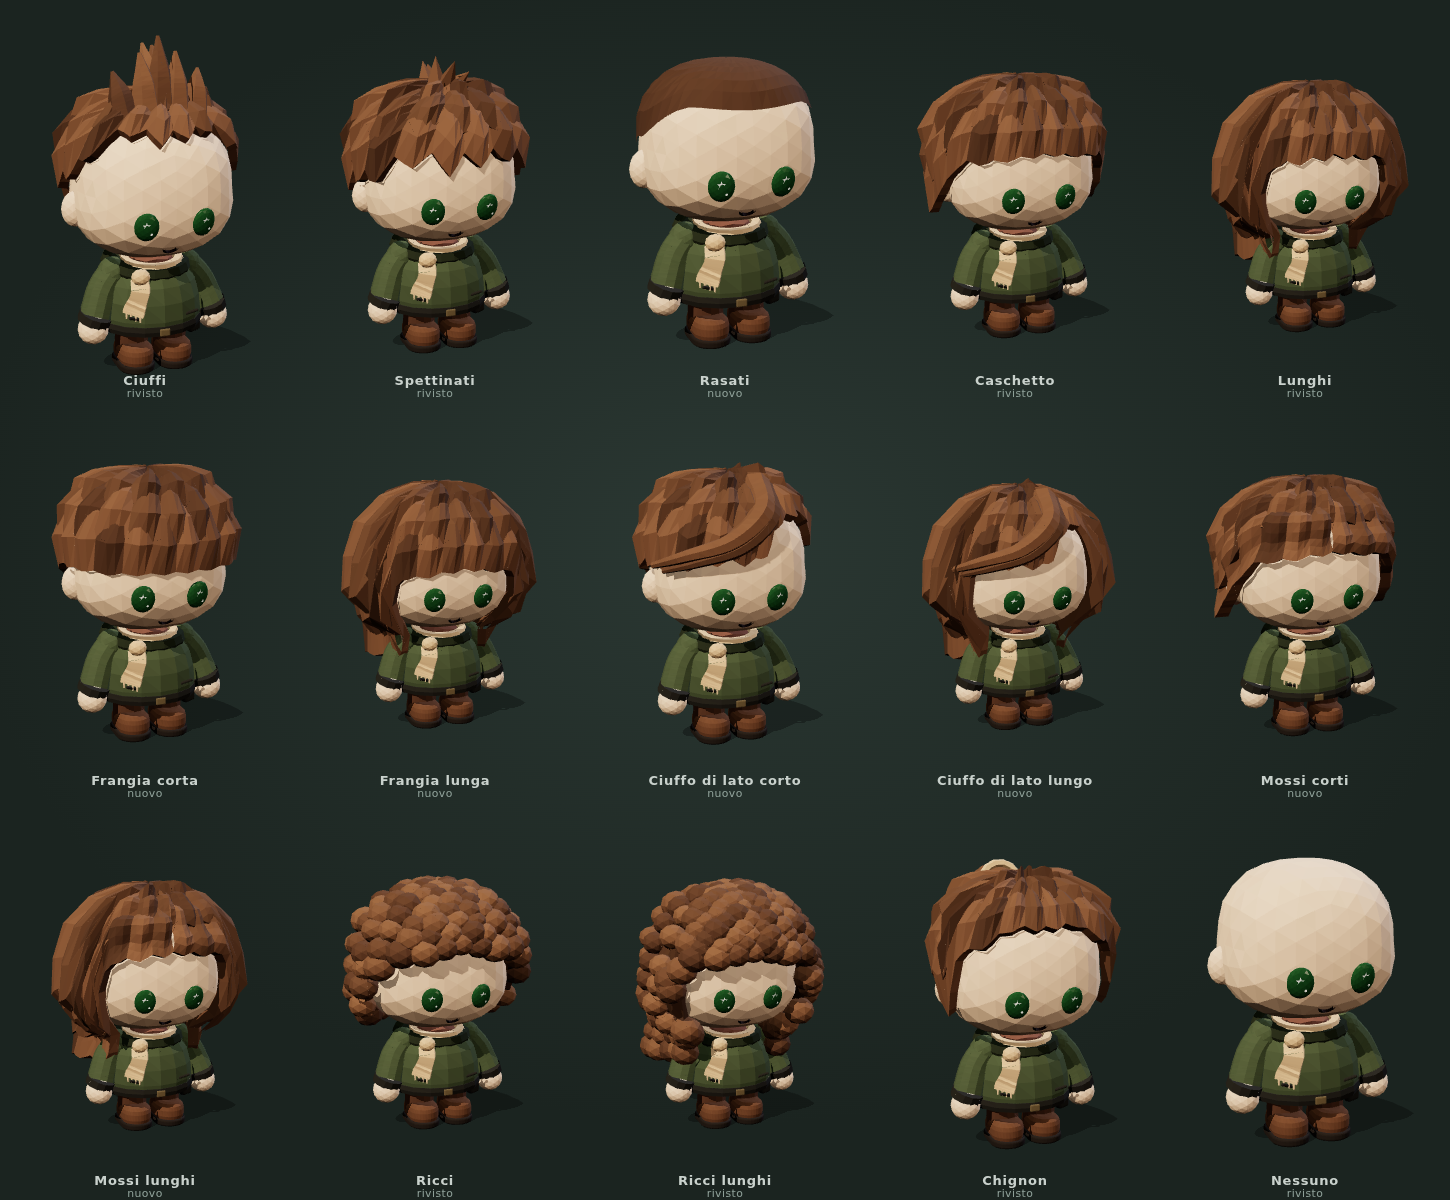
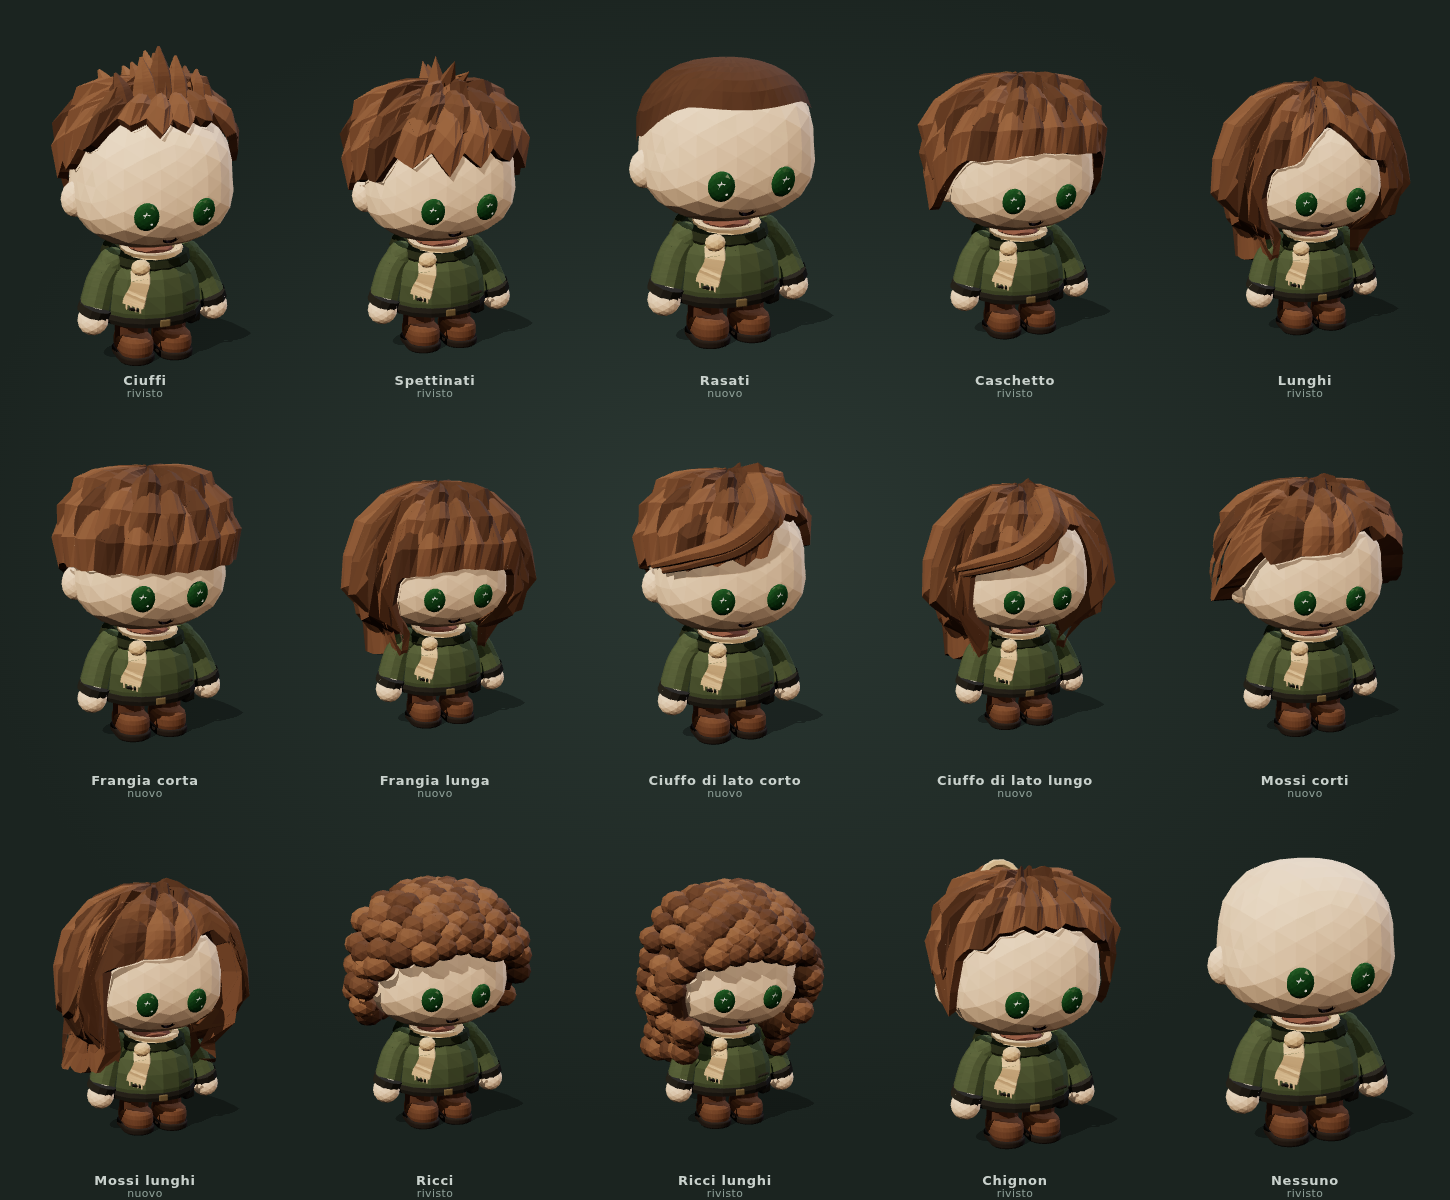
Anteprima capelli: lunghi, frangia lunga e mossi distinti; ciuffi più corti a scalare
Lunghi con la riga in mezzo, frangia lunga a taglio netto, mossi con riga
di lato, ciocche a S e punte tonde che si aprono; caschetto netto alla
mandibola, mossi corti più corti e voluminosi; ciuffi più bassi con altri
ciuffetti a scalare verso la nuca.

Claude-Session: https://claude.ai/code/session_01U6u5RojYrwYjZd8sSRU7em

diff --git a/Prototype-3d/src/render/lowpoly/v2/custode.ts b/Prototype-3d/src/render/lowpoly/v2/custode.ts
@@ -306,12 +306,15 @@ const bump = (a: number, a0: number, a1: number, w = 5) => smooth(a0 - w, a0 + w
 const longTip = (front: number, side = -88, back = -95) => (a: number) => (a < 45 ? lerp(front + 6, front, smooth(0, 45, a)) : a < 72 ? lerp(front, side, smooth(45, 72, a)) : lerp(side, back, smooth(72, 140, a)));
 /** Ciuffo di lato: da una parte la frangia scende sulla fronte, dall'altra la riga lascia la fronte scoperta. */
 const sideFront = (sd: number) => (sd < 0 ? lerp(4, 10, smooth(-70, -20, sd)) : lerp(10, 34, smooth(0, 30, sd)));
+/** Mossi: riga di lato, la frangia scende morbida da una parte. */
+const waveFront = (sd: number) => (sd < 0 ? lerp(8, 16, smooth(-60, -10, sd)) : lerp(16, 30, smooth(0, 35, sd)));
 const HAIR_TIPS: Record<Exclude<HairStyle, 'none'>, (a: number, sd: number) => number> = {
   spiky: (a) => (a < 90 ? lerp(20, 0, smooth(30, 90, a)) : lerp(0, -32, smooth(90, 160, a))), // ai lati fin sopra l'orecchio, dietro alla nuca
   // ciuffi: fronte scoperta (attaccatura alta), corti ai lati; i ciuffi salgono dalla cima
   tufts: (a) => (a < 40 ? 42 : a < 90 ? lerp(42, 8, smooth(40, 90, a)) : lerp(8, -38, smooth(90, 160, a))),
   bob: (a) => (a < 50 ? lerp(14, 8, smooth(0, 50, a)) : lerp(8, -42, smooth(50, 105, a))), // caschetto: frangia dritta, copre le orecchie
-  long: longTip(10),
+  // lunghi: riga in mezzo, due tende che lasciano scoperta la fronte al centro
+  long: (a) => (a < 45 ? lerp(40, 8, smooth(0, 38, a)) : longTip(8)(a)),
   // ricci: scendono sotto le orecchie, dietro fino alla nuca
   curly: (a) => (a < 40 ? lerp(22, 14, smooth(0, 40, a)) : a < 110 ? lerp(14, -40, smooth(40, 110, a)) : lerp(-40, -46, smooth(110, 170, a))),
   longcurly: longTip(12, -84, -90),
@@ -322,9 +325,9 @@ const HAIR_TIPS: Record<Exclude<HairStyle, 'none'>, (a: number, sd: number) => n
   fringeLong: longTip(-2),
   side: (a, sd) => (a < 95 ? lerp(sideFront(sd), 2, smooth(55, 95, a)) : lerp(2, -38, smooth(95, 165, a))),
   sideLong: (a, sd) => (a < 72 ? lerp(sideFront(sd), -88, smooth(50, 72, a)) : lerp(-88, -95, smooth(72, 140, a))),
-  // mossi: come un caschetto lungo, a onde
-  wavy: (a) => (a < 45 ? lerp(16, 10, smooth(0, 45, a)) : lerp(10, -46, smooth(45, 105, a))),
-  wavyLong: longTip(12),
+  // mossi: riga di lato, ciocche a onde con le punte tonde che si aprono; corti fino al lobo
+  wavy: (a, sd) => (a < 45 ? waveFront(sd) : a < 110 ? lerp(waveFront(sd * 0.3), -26, smooth(45, 100, a)) : lerp(-26, -34, smooth(110, 170, a))),
+  wavyLong: (a, sd) => (a < 45 ? waveFront(sd) : longTip(waveFront(sd * 0.3), -92, -102)(a)),
   // rasati: un velo cortissimo che segue l'attaccatura
   buzz: (a) => (a < 40 ? 30 : a < 95 ? lerp(30, 6, smooth(40, 95, a)) : lerp(6, -44, smooth(95, 165, a))),
 };
@@ -599,29 +602,34 @@ function moustache(lp: LP) {
  * per ciocca che scende dal vortice girando un poco: le ciocche fanno parte
  * del volume, non possono staccarsi.
  */
-export function hairLayer(lp: LP, o: { locks: number; hem: (thDeg: number) => number; depth: number; lift: number; thick: number; phase: number; swirl: number; seed: number; tone: (k: number) => string; top?: number; span?: [number, number]; wave?: number }) {
+export function hairLayer(lp: LP, o: { locks: number; hem: (thDeg: number) => number; depth: number; lift: number; thick: number; phase: number; swirl: number; seed: number; tone: (k: number) => string; top?: number; span?: [number, number]; waveTh?: number; flare?: number; round?: boolean }) {
   const rnd = prng(o.seed);
   const jitter = Array.from({ length: o.locks }, () => [0.75 + rnd() * 0.5, (rnd() - 0.5) * 0.3, rnd()]); // lunghezza, asimmetria, tono
-  const NU = o.locks * 4, NV = o.wave ? 18 : 6; // pochi segmenti: bastano per punta e rilievo di ogni ciocca (le onde ne vogliono di più)
+  const NU = o.locks * 4, NV = o.waveTh ? 16 : 6; // pochi segmenti: bastano per punta e rilievo di ogni ciocca (le onde ne vogliono di più)
   const P: THREE.Vector3[][] = [], Q: THREE.Vector3[][] = [], Nn: THREE.Vector3[][] = [], lockOf: number[] = [];
   for (let i = 0; i <= NU; i++) {
     const u = i / NU, f = (u * o.locks + o.phase) % o.locks, k = Math.floor(f), w = f - k;
     const [len, skew] = jitter[k];
-    // dente di sega: punta al centro della ciocca (spostata un po' di lato)
-    const c = 0.5 + skew, tooth = w < c ? w / c : (1 - w) / (1 - c);
+    // dente di sega (punta al centro della ciocca, spostata un po' di lato) o, per i mossi, punte tonde
+    const c = 0.5 + skew, tooth = o.round ? Math.pow(Math.sin(Math.PI * w), 0.5) : w < c ? w / c : (1 - w) / (1 - c);
     const ridge = Math.sin(Math.PI * Math.min(1, Math.max(0, w))); // rilievo al centro della ciocca
     lockOf.push(k);
     P.push([]); Q.push([]); Nn.push([]);
     for (let j = 0; j <= NV; j++) {
       const v = j / NV; // 0 bordo, 1 cima
-      const thD = (o.span ? lerp(o.span[0], o.span[1], u) : u * 360) + o.swirl * v;
+      // mossi: ogni ciocca ondeggia di lato (a S) scendendo, di più verso le punte
+      // (sulla fronte la frangia resta liscia: onde e volume solo ai lati e dietro)
+      const th0 = (o.span ? lerp(o.span[0], o.span[1], u) : u * 360) + o.swirl * v;
+      const sides = smooth(30, 75, absDeg(th0 * DEG));
+      const wv = o.waveTh ? o.waveTh * Math.sin((1 - v) * Math.PI * 2.6 + k * 0.9) * smooth(0, 0.6, 1 - v) * sides : 0;
+      const thD = th0 + wv;
       const ends = o.span ? smooth(0, 0.1, u) * smooth(1, 0.9, u) : 1; // un arco si assottiglia agli estremi
-      const hem = o.hem(thD) - o.depth * len * tooth;
+      const hem = o.hem(thD) - o.depth * len * tooth * (o.round ? 0.25 + 0.75 * sides : 1);
       const top = o.top ?? 89;
       const phD = lerp(Math.min(hem, top - 3), top, Math.pow(v, 0.85));
       const { p, n } = hairPoint(thD * DEG, phD);
-      const wave = o.wave ? o.wave * Math.sin(v * Math.PI * 7 + u * Math.PI * 2 * o.locks * 0.02) * (1 - v) : 0; // onde orizzontali, più marcate in basso
-      const t = (o.thick * (0.55 + 0.45 * ridge) * smooth(0, 0.25, v + 0.05 * tooth) + o.lift * (1 - v) * (1 - v) + Math.max(-o.thick * 0.5, wave)) * ends;
+      const flare = (o.flare ?? 0) * Math.pow(1 - v, 3) * sides; // le punte si aprono verso l'esterno (volume)
+      const t = (o.thick * (0.55 + 0.45 * ridge) * smooth(0, 0.25, v + 0.05 * tooth) + o.lift * (1 - v) * (1 - v) + flare) * ends;
       P[i].push(p.clone().addScaledVector(n, 0.006 + t));
       Q[i].push(p.clone().addScaledVector(n, 0.004));
       Nn[i].push(n);
@@ -676,7 +684,7 @@ function hair(lp: LP) {
   const tip = (thD: number) => hairTip(thD * DEG);
   const top = Math.min(hatPh(), X.hair?.top ?? 89), hat = hatPh() < 89;
   const style = L.hair;
-  const depth = X.hair?.depth ?? ({ bob: 3, long: 5, bun: 4, longcurly: 6, curly: 7, fringe: 2, fringeLong: 3, side: 6, sideLong: 5, wavy: 3, wavyLong: 4, tufts: 9 } as Record<string, number>)[style] ?? 13;
+  const depth = X.hair?.depth ?? ({ bob: 1, long: 2, bun: 4, longcurly: 6, curly: 7, fringe: 2, fringeLong: 1, side: 6, sideLong: 5, wavy: 5, wavyLong: 6, tufts: 9 } as Record<string, number>)[style] ?? 13;
   if (X.hair) { // orlo su misura (corona di capelli ai lati, ciuffi grigi…): un solo strato
     hairLayer(lp, { locks: 14, hem: (t) => tip(t) + 4, depth, lift: X.hair.lift ?? 0.03, thick: X.hair.thick ?? 0.05, phase: 0, swirl: 6, seed: 3, tone, top: Math.min(top, X.hair.top ?? 89), span: X.hair.span });
     return;
@@ -687,13 +695,16 @@ function hair(lp: LP) {
   }
   const messy = style === 'spiky' || style === 'tufts';
   const curly = style === 'curly' || style === 'longcurly';
-  const wave = style === 'wavy' || style === 'wavyLong' ? 0.018 : 0;
+  // mossi: poche ciocche grosse, a S, con le punte tonde che si aprono in fuori
+  const wavy = style === 'wavy' || style === 'wavyLong';
+  const wave = wavy ? { waveTh: style === 'wavy' ? 9 : 15, flare: style === 'wavy' ? 0.05 : 0.07, round: true } : {};
+  const wave2 = wavy ? { waveTh: style === 'wavy' ? 7 : 11, flare: 0.03, round: true } : {};
   // i ricci hanno sotto un casco sottile e più scuro: si vedono solo i riccioli
   const base = curly ? (k: number) => tone(k - 0.07) : tone;
   const thick = curly ? 0.025 : hat ? 0.03 : 0.05;
-  hairLayer(lp, { locks: messy ? 15 : 20, hem: (t) => tip(t) + 4, depth, lift: 0.03, thick, phase: 0, swirl: messy ? 14 : 6, seed: 3, tone: base, top, wave });
+  hairLayer(lp, { locks: messy ? 15 : wavy ? 14 : 20, hem: (t) => tip(t) + 4, depth, lift: 0.03, thick, phase: 0, swirl: messy ? 14 : 6, seed: 3, tone: base, top, ...wave });
   if (!hat && !curly) {
-    hairLayer(lp, { locks: messy ? 12 : 16, hem: (t) => tip(t) + 26, depth: depth + 2, lift: 0.04, thick: 0.065, phase: 0.5, swirl: messy ? 18 : 8, seed: 7, tone, wave: wave * 0.6 });
+    hairLayer(lp, { locks: messy ? 12 : wavy ? 11 : 16, hem: (t) => tip(t) + 26, depth: depth + 2, lift: 0.04, thick: 0.065, phase: 0.5, swirl: messy ? 18 : 8, seed: 7, tone, ...wave2 });
     hairLayer(lp, { locks: messy ? 9 : 12, hem: (t) => tip(t) + 48, depth: depth + 3, lift: 0.05, thick: 0.08, phase: 0.2, swirl: messy ? 22 : 10, seed: 11, tone });
   }
   if (curly) curls(lp, tone, hat ? top : 86);
@@ -726,7 +737,9 @@ function hair(lp: LP) {
  */
 function tufts(lp: LP, tone: (k: number) => string) {
   const list: Array<[number, number, number, number]> = [ // θ, φ della radice, altezza, piega all'indietro
-    [-28, 66, 0.2, 0.35], [0, 70, 0.25, 0.25], [28, 66, 0.2, 0.4], [-55, 58, 0.15, 0.5], [55, 58, 0.15, 0.55], [-14, 80, 0.21, 0.6], [16, 80, 0.2, 0.7],
+    [-28, 66, 0.15, 0.35], [0, 70, 0.18, 0.25], [28, 66, 0.15, 0.4], [-55, 58, 0.11, 0.5], [55, 58, 0.11, 0.55], [-14, 80, 0.15, 0.6], [16, 80, 0.14, 0.7],
+    // a scalare verso la nuca: più piccoli e più piegati, danno movimento alla cima
+    [-100, 62, 0.1, 0.9], [100, 62, 0.1, 0.9], [-60, 80, 0.11, 0.8], [60, 80, 0.11, 0.85], [150, 70, 0.09, 1], [-150, 72, 0.09, 1], [180, 82, 0.1, 0.9],
   ];
   list.forEach(([th, ph, h, back], k) => {
     const { p, n } = headAt(th * DEG, ph * DEG);
@@ -735,7 +748,7 @@ function tufts(lp: LP, tone: (k: number) => string) {
     const bend = new THREE.Vector3(Math.sin(th * DEG) * 0.3, 0, -1).normalize(); // si piega indietro e un po' in fuori
     const mid = rootP.clone().addScaledVector(up, h * 0.55).addScaledVector(bend, h * back * 0.25);
     const tipP = rootP.clone().addScaledVector(up, h).addScaledVector(bend, h * back * 0.7);
-    lp.add(taperTube([rootP, mid, tipP], [0.055, 0.04, 0.006], 6), tone([0.04, 0.0, 0.03, -0.02, 0.02, 0.05, 0.01][k]), { ...O, vary: 0.04 });
+    lp.add(taperTube([rootP, mid, tipP], [0.03 + h * 0.14, 0.022 + h * 0.1, 0.005], 6), tone([0.04, 0.0, 0.03, -0.02, 0.02, 0.05, 0.01][k % 7]), { ...O, vary: 0.04 });
   });
 }
 
